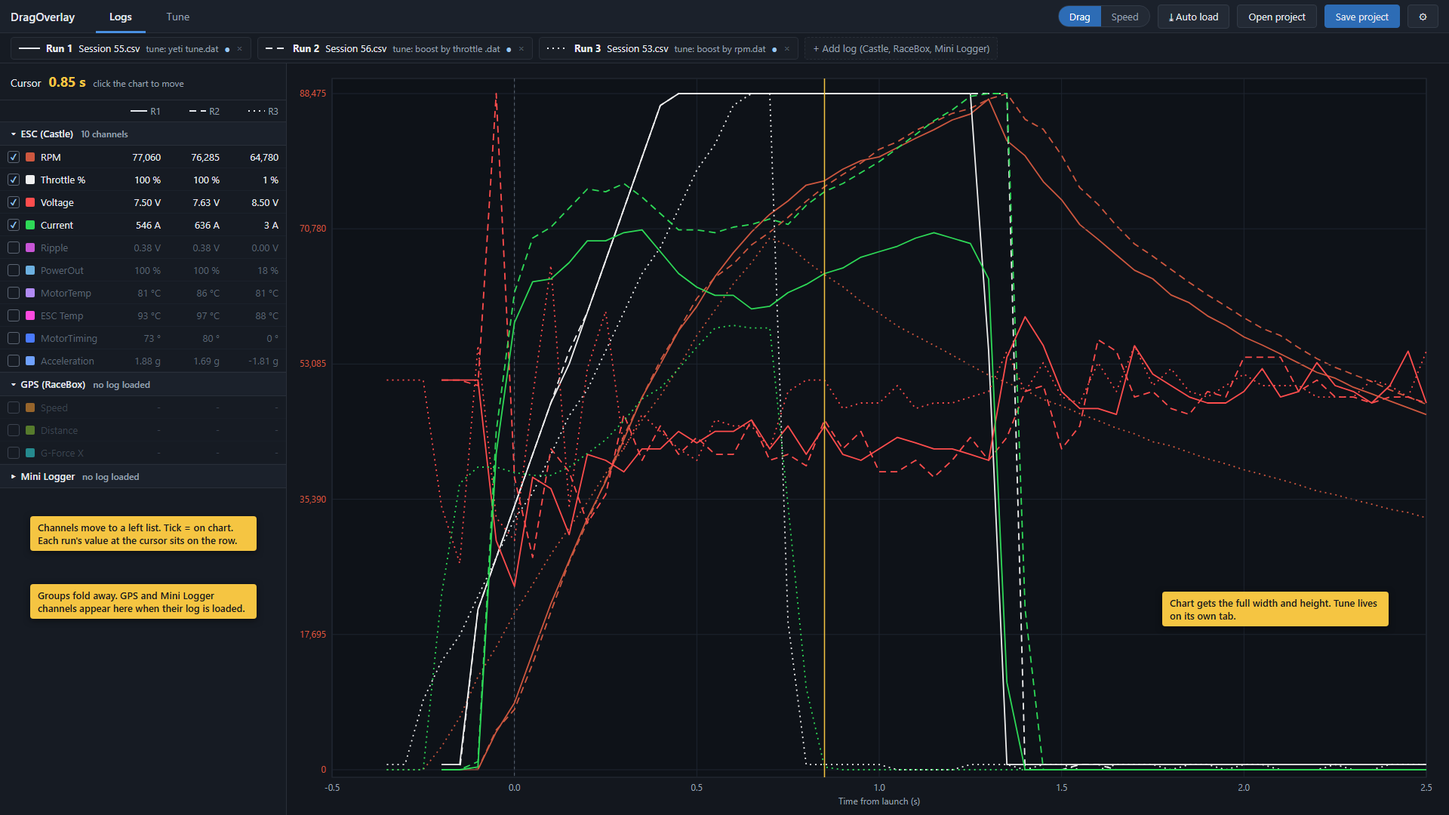
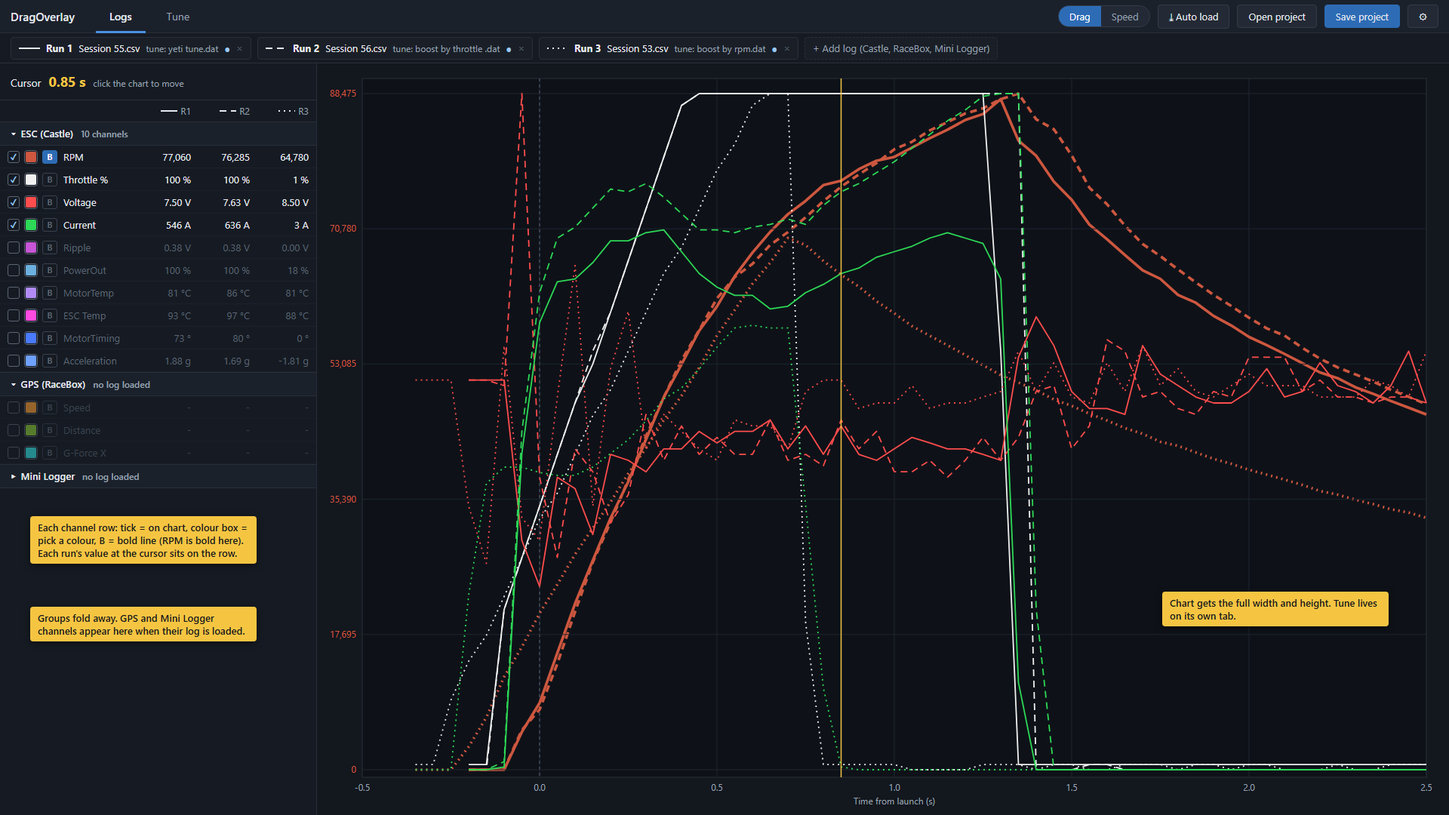
docs: add bold-line button to channel rows in the Logs mockup

diff --git a/Docs/mockups/logs-page.html b/Docs/mockups/logs-page.html
@@ -19,7 +19,7 @@ body { width: 1920px; height: 1080px; background: #13171E; color: #E6E9EF;
 .note { position: absolute; z-index: 10; background: #F5C542; color: #1b1b1b; font: 600 13px 'Segoe UI'; padding: 6px 10px; border-radius: 4px; box-shadow: 0 2px 8px rgba(0,0,0,.5); max-width: 300px; }
 
 .main { flex: 1; position: relative; }
-.side { position: absolute; left: 0; top: 0; bottom: 0; width: 380px; background: #161B23; border-right: 1px solid #292F39; overflow: hidden; }
+.side { position: absolute; left: 0; top: 0; bottom: 0; width: 420px; background: #161B23; border-right: 1px solid #292F39; overflow: hidden; }
 .cur { display: flex; align-items: baseline; gap: 10px; padding: 12px 14px; border-bottom: 1px solid #292F39; font-size: 14px; }
 .cur b { color: #F5C542; font-size: 18px; }
 .hdr, .row { display: flex; align-items: center; height: 30px; padding: 0 10px; gap: 8px; }
@@ -29,8 +29,10 @@ body { width: 1920px; height: 1080px; background: #13171E; color: #E6E9EF;
 .row.off .nm, .row.off .vc { color: #5C6573; }
 .row.dis { opacity: .55; }
 .cb { width: 16px; height: 16px; border: 1px solid #5C6573; border-radius: 3px; font-size: 11px; line-height: 14px; text-align: center; color: #9AC7F2; }
-.sw { width: 12px; height: 12px; border-radius: 2px; }
-.nm { flex: 1; }
+.sw { width: 14px; height: 14px; border-radius: 2px; outline: 1px solid #5C6573; outline-offset: 1px; }
+.bb { width: 20px; height: 18px; border: 1px solid #3A4250; border-radius: 3px; font: 700 11px 'Segoe UI'; text-align: center; line-height: 16px; color: #5C6573; }
+.bb.on { background: #2D6CB5; border-color: #2D6CB5; color: #fff; }
+.nm { flex: 1; white-space: nowrap; }
 .vc { width: 70px; text-align: right; font-variant-numeric: tabular-nums; display: flex; justify-content: flex-end; align-items: center; gap: 4px; }
 </style></head><body><div class="top"><div class="brand">DragOverlay</div><div class="tab on">Logs</div><div class="tab">Tune</div><div class="sp"></div>
 <div class="pill"><span class="on">Drag</span><span>Speed</span></div>
@@ -38,11 +40,11 @@ body { width: 1920px; height: 1080px; background: #13171E; color: #E6E9EF;
 <div class="side">
   <div class="cur"><span>Cursor</span><b>0.85 s</b><span class="lbl">click the chart to move</span></div>
   <div class="hdr"><span class="nm"></span><div class="vc"><svg width="22" height="10"><line x1="0" y1="5" x2="22" y2="5" stroke="#E6E9EF" stroke-width="2" stroke-dasharray=""/></svg> R1</div><div class="vc"><svg width="22" height="10"><line x1="0" y1="5" x2="22" y2="5" stroke="#E6E9EF" stroke-width="2" stroke-dasharray="9 6"/></svg> R2</div><div class="vc"><svg width="22" height="10"><line x1="0" y1="5" x2="22" y2="5" stroke="#E6E9EF" stroke-width="2" stroke-dasharray="2 5"/></svg> R3</div></div>
-  <div class="grp">▾ ESC (Castle)<span class="lbl">10 channels</span></div><div class="row"><span class="cb">✔</span><span class="sw" style="background:#CD573F"></span><span class="nm">RPM</span><div class="vc">77,060</div><div class="vc">76,285</div><div class="vc">64,780</div></div><div class="row"><span class="cb">✔</span><span class="sw" style="background:#F0F0F0"></span><span class="nm">Throttle %</span><div class="vc">100 %</div><div class="vc">100 %</div><div class="vc">1 %</div></div><div class="row"><span class="cb">✔</span><span class="sw" style="background:#FF4D4D"></span><span class="nm">Voltage</span><div class="vc">7.50 V</div><div class="vc">7.63 V</div><div class="vc">8.50 V</div></div><div class="row"><span class="cb">✔</span><span class="sw" style="background:#2ED957"></span><span class="nm">Current</span><div class="vc">546 A</div><div class="vc">636 A</div><div class="vc">3 A</div></div><div class="row off"><span class="cb"></span><span class="sw" style="background:#C855D6"></span><span class="nm">Ripple</span><div class="vc">0.38 V</div><div class="vc">0.38 V</div><div class="vc">0.00 V</div></div><div class="row off"><span class="cb"></span><span class="sw" style="background:#6CB0E0"></span><span class="nm">PowerOut</span><div class="vc">100 %</div><div class="vc">100 %</div><div class="vc">18 %</div></div><div class="row off"><span class="cb"></span><span class="sw" style="background:#B18BF5"></span><span class="nm">MotorTemp</span><div class="vc">81 °C</div><div class="vc">86 °C</div><div class="vc">81 °C</div></div><div class="row off"><span class="cb"></span><span class="sw" style="background:#FF4AE0"></span><span class="nm">ESC Temp</span><div class="vc">93 °C</div><div class="vc">97 °C</div><div class="vc">88 °C</div></div><div class="row off"><span class="cb"></span><span class="sw" style="background:#4A7AFF"></span><span class="nm">MotorTiming</span><div class="vc">73 °</div><div class="vc">80 °</div><div class="vc">0 °</div></div><div class="row off"><span class="cb"></span><span class="sw" style="background:#6FA1FF"></span><span class="nm">Acceleration</span><div class="vc">1.88 g</div><div class="vc">1.69 g</div><div class="vc">-1.81 g</div></div>
-  <div class="grp">▾ GPS (RaceBox)<span class="lbl">no log loaded</span></div><div class="row off dis"><span class="cb"></span><span class="sw" style="background:#FFA033"></span><span class="nm">Speed</span><div class="vc">-</div><div class="vc">-</div><div class="vc">-</div></div><div class="row off dis"><span class="cb"></span><span class="sw" style="background:#8CCB35"></span><span class="nm">Distance</span><div class="vc">-</div><div class="vc">-</div><div class="vc">-</div></div><div class="row off dis"><span class="cb"></span><span class="sw" style="background:#33E6E6"></span><span class="nm">G-Force X</span><div class="vc">-</div><div class="vc">-</div><div class="vc">-</div></div>
+  <div class="grp">▾ ESC (Castle)<span class="lbl">10 channels</span></div><div class="row"><span class="cb">✔</span><span class="sw" style="background:#CD573F"></span><span class="bb on">B</span><span class="nm">RPM</span><div class="vc">77,060</div><div class="vc">76,285</div><div class="vc">64,780</div></div><div class="row"><span class="cb">✔</span><span class="sw" style="background:#F0F0F0"></span><span class="bb">B</span><span class="nm">Throttle %</span><div class="vc">100 %</div><div class="vc">100 %</div><div class="vc">1 %</div></div><div class="row"><span class="cb">✔</span><span class="sw" style="background:#FF4D4D"></span><span class="bb">B</span><span class="nm">Voltage</span><div class="vc">7.50 V</div><div class="vc">7.63 V</div><div class="vc">8.50 V</div></div><div class="row"><span class="cb">✔</span><span class="sw" style="background:#2ED957"></span><span class="bb">B</span><span class="nm">Current</span><div class="vc">546 A</div><div class="vc">636 A</div><div class="vc">3 A</div></div><div class="row off"><span class="cb"></span><span class="sw" style="background:#C855D6"></span><span class="bb">B</span><span class="nm">Ripple</span><div class="vc">0.38 V</div><div class="vc">0.38 V</div><div class="vc">0.00 V</div></div><div class="row off"><span class="cb"></span><span class="sw" style="background:#6CB0E0"></span><span class="bb">B</span><span class="nm">PowerOut</span><div class="vc">100 %</div><div class="vc">100 %</div><div class="vc">18 %</div></div><div class="row off"><span class="cb"></span><span class="sw" style="background:#B18BF5"></span><span class="bb">B</span><span class="nm">MotorTemp</span><div class="vc">81 °C</div><div class="vc">86 °C</div><div class="vc">81 °C</div></div><div class="row off"><span class="cb"></span><span class="sw" style="background:#FF4AE0"></span><span class="bb">B</span><span class="nm">ESC Temp</span><div class="vc">93 °C</div><div class="vc">97 °C</div><div class="vc">88 °C</div></div><div class="row off"><span class="cb"></span><span class="sw" style="background:#4A7AFF"></span><span class="bb">B</span><span class="nm">MotorTiming</span><div class="vc">73 °</div><div class="vc">80 °</div><div class="vc">0 °</div></div><div class="row off"><span class="cb"></span><span class="sw" style="background:#6FA1FF"></span><span class="bb">B</span><span class="nm">Acceleration</span><div class="vc">1.88 g</div><div class="vc">1.69 g</div><div class="vc">-1.81 g</div></div>
+  <div class="grp">▾ GPS (RaceBox)<span class="lbl">no log loaded</span></div><div class="row off dis"><span class="cb"></span><span class="sw" style="background:#FFA033"></span><span class="bb">B</span><span class="nm">Speed</span><div class="vc">-</div><div class="vc">-</div><div class="vc">-</div></div><div class="row off dis"><span class="cb"></span><span class="sw" style="background:#8CCB35"></span><span class="bb">B</span><span class="nm">Distance</span><div class="vc">-</div><div class="vc">-</div><div class="vc">-</div></div><div class="row off dis"><span class="cb"></span><span class="sw" style="background:#33E6E6"></span><span class="bb">B</span><span class="nm">G-Force X</span><div class="vc">-</div><div class="vc">-</div><div class="vc">-</div></div>
   <div class="grp">▸ Mini Logger<span class="lbl">no log loaded</span></div>
 </div>
-<div class="note" style="left:40px; top:600px">Channels move to a left list. Tick = on chart. Each run's value at the cursor sits on the row.</div>
-<div class="note" style="left:40px; top:690px">Groups fold away. GPS and Mini Logger channels appear here when their log is loaded.</div>
+<div class="note" style="left:40px; top:600px">Each channel row: tick = on chart, colour box = pick a colour, B = bold line (RPM is bold here). Each run's value at the cursor sits on the row.</div>
+<div class="note" style="left:40px; top:720px">Groups fold away. GPS and Mini Logger channels appear here when their log is loaded.</div>
 <div class="note" style="left:1540px; top:700px">Chart gets the full width and height. Tune lives on its own tab.</div>
-</div><svg width="1920" height="1080" style="position:absolute;left:0;top:0;pointer-events:none"><rect x="440" y="104" width="1450" height="926" fill="#0E1218" stroke="#292F39"/><line x1="440.0" y1="104" x2="440.0" y2="1030" stroke="#1E2530"/><text x="440.0" y="1048" fill="#9AA3B2" font-size="12" text-anchor="middle">-0.5</text><line x1="681.6666666666666" y1="104" x2="681.6666666666666" y2="1030" stroke="#1E2530"/><text x="681.6666666666666" y="1048" fill="#9AA3B2" font-size="12" text-anchor="middle">0.0</text><line x1="923.3333333333333" y1="104" x2="923.3333333333333" y2="1030" stroke="#1E2530"/><text x="923.3333333333333" y="1048" fill="#9AA3B2" font-size="12" text-anchor="middle">0.5</text><line x1="1165.0" y1="104" x2="1165.0" y2="1030" stroke="#1E2530"/><text x="1165.0" y="1048" fill="#9AA3B2" font-size="12" text-anchor="middle">1.0</text><line x1="1406.6666666666665" y1="104" x2="1406.6666666666665" y2="1030" stroke="#1E2530"/><text x="1406.6666666666665" y="1048" fill="#9AA3B2" font-size="12" text-anchor="middle">1.5</text><line x1="1648.3333333333335" y1="104" x2="1648.3333333333335" y2="1030" stroke="#1E2530"/><text x="1648.3333333333335" y="1048" fill="#9AA3B2" font-size="12" text-anchor="middle">2.0</text><line x1="1890.0" y1="104" x2="1890.0" y2="1030" stroke="#1E2530"/><text x="1890.0" y="1048" fill="#9AA3B2" font-size="12" text-anchor="middle">2.5</text><text x="1165.0" y="1066" fill="#9AA3B2" font-size="12" text-anchor="middle">Time from launch (s)</text><line x1="681.6666666666666" y1="104" x2="681.6666666666666" y2="1030" stroke="#5C6573" stroke-dasharray="4 4"/><polyline points="585.0,1020.0 609.2,1020.0 633.3,1019.9 657.5,969.9 681.7,931.5 705.8,865.4 730.0,799.8 754.2,742.8 778.3,686.8 802.5,638.2 826.7,582.3 850.8,526.4 875.0,482.9 899.2,438.2 923.3,406.1 947.5,366.2 971.7,334.9 995.8,307.3 1020.0,283.9 1044.2,266.2 1068.3,245.3 1092.5,239.6 1116.7,224.2 1140.8,212.9 1165.0,207.9 1189.2,195.5 1213.3,183.2 1237.5,171.9 1261.7,159.0 1285.8,151.1 1310.0,131.3 1334.2,186.4 1358.3,206.4 1382.5,240.8 1406.7,264.8 1430.8,297.6 1455.0,317.1 1479.2,337.8 1503.3,358.1 1527.5,369.5 1551.7,390.9 1575.8,401.2 1600.0,418.6 1624.2,431.3 1648.3,446.5 1672.5,457.3 1696.7,469.0 1720.8,481.1 1745.0,493.5 1769.2,501.2 1793.3,513.2 1817.5,521.9 1841.7,531.4 1865.8,540.3 1890.0,549.3" fill="none" stroke="#CD573F" stroke-width="1.8" stroke-dasharray="" stroke-linejoin="round" opacity="1.0"/><polyline points="585.0,1020.0 609.2,1020.0 633.3,1019.2 657.5,967.4 681.7,940.2 705.8,879.4 730.0,810.6 754.2,745.0 778.3,691.8 802.5,635.8 826.7,577.9 850.8,526.6 875.0,477.5 899.2,437.4 923.3,395.5 947.5,367.3 971.7,349.7 995.8,324.6 1020.0,307.6 1044.2,288.0 1068.3,266.6 1092.5,247.5 1116.7,231.2 1140.8,216.1 1165.0,197.8 1189.2,187.8 1213.3,172.9 1237.5,161.8 1261.7,150.3 1285.8,143.6 1310.0,131.4 1334.2,124.0 1358.3,158.1 1382.5,171.4 1406.7,205.8 1430.8,248.7 1455.0,270.8 1479.2,298.9 1503.3,323.3 1527.5,339.4 1551.7,357.1 1575.8,374.2 1600.0,390.7 1624.2,405.6 1648.3,421.1 1672.5,435.1 1696.7,444.7 1720.8,460.8 1745.0,475.3 1769.2,486.8 1793.3,496.2 1817.5,505.6 1841.7,516.6 1865.8,525.9 1890.0,535.7" fill="none" stroke="#CD573F" stroke-width="1.8" stroke-dasharray="9 6" stroke-linejoin="round" opacity="1.0"/><polyline points="512.5,1020.0 536.7,1020.0 560.8,1020.0 585.0,989.6 609.2,950.5 633.3,896.8 657.5,857.4 681.7,812.7 705.8,774.5 730.0,734.5 754.2,699.7 778.3,665.4 802.5,627.4 826.7,593.8 850.8,556.7 875.0,524.5 899.2,487.2 923.3,444.7 947.5,410.8 971.7,376.2 995.8,348.1 1020.0,315.3 1044.2,324.7 1068.3,345.7 1092.5,364.0 1116.7,379.8 1140.8,399.2 1165.0,415.1 1189.2,432.1 1213.3,444.9 1237.5,457.5 1261.7,470.5 1285.8,483.9 1310.0,497.1 1334.2,507.0 1358.3,517.2 1382.5,529.4 1406.7,537.8 1430.8,548.2 1455.0,557.3 1479.2,567.3 1503.3,574.8 1527.5,585.4 1551.7,590.9 1575.8,599.5 1600.0,608.0 1624.2,614.6 1648.3,622.5 1672.5,628.9 1696.7,635.5 1720.8,642.5 1745.0,650.6 1769.2,655.5 1793.3,662.2 1817.5,668.0 1841.7,674.8 1865.8,679.2 1890.0,686.3" fill="none" stroke="#CD573F" stroke-width="1.8" stroke-dasharray="2 5" stroke-linejoin="round" opacity="1.0"/><text x="432" y="1024.0" fill="#CD573F" font-size="12" text-anchor="end">0</text><line x1="440" y1="1020.0" x2="1890" y2="1020.0" stroke="#1E2530"/><text x="432" y="844.8" fill="#CD573F" font-size="12" text-anchor="end">17,695</text><line x1="440" y1="840.8" x2="1890" y2="840.8" stroke="#1E2530"/><text x="432" y="665.5999999999999" fill="#CD573F" font-size="12" text-anchor="end">35,390</text><line x1="440" y1="661.5999999999999" x2="1890" y2="661.5999999999999" stroke="#1E2530"/><text x="432" y="486.4" fill="#CD573F" font-size="12" text-anchor="end">53,085</text><line x1="440" y1="482.4" x2="1890" y2="482.4" stroke="#1E2530"/><text x="432" y="307.19999999999993" fill="#CD573F" font-size="12" text-anchor="end">70,780</text><line x1="440" y1="303.19999999999993" x2="1890" y2="303.19999999999993" stroke="#1E2530"/><text x="432" y="128.0" fill="#CD573F" font-size="12" text-anchor="end">88,475</text><line x1="440" y1="124.0" x2="1890" y2="124.0" stroke="#1E2530"/><polyline points="585.0,1013.2 609.2,1013.2 633.3,807.8 657.5,739.2 681.7,670.8 705.8,602.2 730.0,533.8 754.2,482.4 778.3,413.8 802.5,345.4 826.7,276.8 850.8,208.4 875.0,139.7 899.2,124.0 923.3,124.0 947.5,124.0 971.7,124.0 995.8,124.0 1020.0,124.0 1044.2,124.0 1068.3,124.0 1092.5,124.0 1116.7,124.0 1140.8,124.0 1165.0,124.0 1189.2,124.0 1213.3,124.0 1237.5,124.0 1261.7,124.0 1285.8,124.0 1310.0,465.1 1334.2,1013.2 1358.3,1013.2 1382.5,1013.2 1406.7,1013.2 1430.8,1013.2 1455.0,1013.2 1479.2,1013.2 1503.3,1013.2 1527.5,1013.2 1551.7,1013.2 1575.8,1013.2 1600.0,1013.2 1624.2,1013.2 1648.3,1013.2 1672.5,1013.2 1696.7,1013.2 1720.8,1013.2 1745.0,1013.2 1769.2,1013.2 1793.3,1013.2 1817.5,1013.2 1841.7,1013.2 1865.8,1013.2 1890.0,1013.2" fill="none" stroke="#F0F0F0" stroke-width="1.8" stroke-dasharray="" stroke-linejoin="round" opacity="1.0"/><polyline points="585.0,1020.0 609.2,1020.0 633.3,807.8 657.5,739.2 681.7,670.8 705.8,602.2 730.0,533.8 754.2,465.1 778.3,413.8 802.5,345.4 826.7,276.8 850.8,208.4 875.0,139.7 899.2,124.0 923.3,124.0 947.5,124.0 971.7,124.0 995.8,124.0 1020.0,124.0 1044.2,124.0 1068.3,124.0 1092.5,124.0 1116.7,124.0 1140.8,124.0 1165.0,124.0 1189.2,124.0 1213.3,124.0 1237.5,124.0 1261.7,124.0 1285.8,124.0 1310.0,124.0 1334.2,124.0 1358.3,1020.0 1382.5,1020.0 1406.7,1020.0 1430.8,1013.2 1455.0,1013.2 1479.2,1020.0 1503.3,1020.0 1527.5,1020.0 1551.7,1020.0 1575.8,1020.0 1600.0,1020.0 1624.2,1020.0 1648.3,1020.0 1672.5,1020.0 1696.7,1020.0 1720.8,1020.0 1745.0,1020.0 1769.2,1020.0 1793.3,1020.0 1817.5,1020.0 1841.7,1020.0 1865.8,1020.0 1890.0,1020.0" fill="none" stroke="#F0F0F0" stroke-width="1.8" stroke-dasharray="9 6" stroke-linejoin="round" opacity="1.0"/><polyline points="512.5,1013.2 536.7,1013.2 560.8,927.6 585.0,876.2 609.2,841.9 633.3,790.5 657.5,739.2 681.7,687.8 705.8,653.5 730.0,602.2 754.2,550.8 778.3,516.5 802.5,465.1 826.7,413.8 850.8,362.4 875.0,328.1 899.2,276.8 923.3,225.4 947.5,191.1 971.7,139.7 995.8,124.0 1020.0,124.0 1044.2,824.8 1068.3,1013.2 1092.5,1013.2 1116.7,1013.2 1140.8,1013.2 1165.0,1013.2 1189.2,1020.0 1213.3,1020.0 1237.5,1020.0 1261.7,1020.0 1285.8,1013.2 1310.0,1013.2 1334.2,1013.2 1358.3,1020.0 1382.5,1013.2 1406.7,1013.2 1430.8,1020.0 1455.0,1020.0 1479.2,1013.2 1503.3,1013.2 1527.5,1013.2 1551.7,1020.0 1575.8,1013.2 1600.0,1013.2 1624.2,1020.0 1648.3,1013.2 1672.5,1013.2 1696.7,1020.0 1720.8,1020.0 1745.0,1020.0 1769.2,1013.2 1793.3,1020.0 1817.5,1020.0 1841.7,1013.2 1865.8,1013.2 1890.0,1013.2" fill="none" stroke="#F0F0F0" stroke-width="1.8" stroke-dasharray="2 5" stroke-linejoin="round" opacity="1.0"/><polyline points="585.0,503.7 609.2,503.7 633.3,503.7 657.5,716.3 681.7,777.0 705.8,632.4 730.0,647.6 754.2,708.4 778.3,602.1 802.5,610.0 826.7,625.2 850.8,594.8 875.0,594.8 899.2,571.7 923.3,586.9 947.5,571.7 971.7,571.7 995.8,556.5 1020.0,594.8 1044.2,564.4 1068.3,602.1 1092.5,564.4 1116.7,602.1 1140.8,610.0 1165.0,594.8 1189.2,579.6 1213.3,586.9 1237.5,594.8 1261.7,594.8 1285.8,602.1 1310.0,610.0 1334.2,473.3 1358.3,419.8 1382.5,458.1 1406.7,518.8 1430.8,541.3 1455.0,541.3 1479.2,549.2 1503.3,458.1 1527.5,495.8 1551.7,511.0 1575.8,526.1 1600.0,534.0 1624.2,534.0 1648.3,518.8 1672.5,488.5 1696.7,526.1 1720.8,518.8 1745.0,480.6 1769.2,511.0 1793.3,518.8 1817.5,534.0 1841.7,511.0 1865.8,465.4 1890.0,534.0" fill="none" stroke="#FF4D4D" stroke-width="1.8" stroke-dasharray="" stroke-linejoin="round" opacity="1.0"/><polyline points="585.0,503.7 609.2,503.7 633.3,511.0 657.5,124.0 681.7,632.4 705.8,738.7 730.0,594.8 754.2,625.2 778.3,693.2 802.5,655.5 826.7,549.2 850.8,610.0 875.0,564.4 899.2,602.1 923.3,579.6 947.5,602.1 971.7,602.1 995.8,556.5 1020.0,610.0 1044.2,602.1 1068.3,617.3 1092.5,556.5 1116.7,594.8 1140.8,571.7 1165.0,625.2 1189.2,625.2 1213.3,610.0 1237.5,632.4 1261.7,610.0 1285.8,579.6 1310.0,610.0 1334.2,579.6 1358.3,518.8 1382.5,511.0 1406.7,594.8 1430.8,564.4 1455.0,450.2 1479.2,465.4 1503.3,526.1 1527.5,518.8 1551.7,541.3 1575.8,549.2 1600.0,518.8 1624.2,526.1 1648.3,473.3 1672.5,473.3 1696.7,473.3 1720.8,518.8 1745.0,503.7 1769.2,526.1 1793.3,526.1 1817.5,534.0 1841.7,526.1 1865.8,526.1 1890.0,534.0" fill="none" stroke="#FF4D4D" stroke-width="1.8" stroke-dasharray="9 6" stroke-linejoin="round" opacity="1.0"/><polyline points="512.5,503.7 536.7,503.7 560.8,503.7 585.0,670.7 609.2,746.6 633.3,458.1 657.5,685.9 681.7,716.3 705.8,526.1 730.0,351.8 754.2,670.7 778.3,488.5 802.5,412.5 826.7,594.8 850.8,549.2 875.0,571.7 899.2,594.8 923.3,610.0 947.5,556.5 971.7,564.4 995.8,564.4 1020.0,594.8 1044.2,518.8 1068.3,503.7 1092.5,503.7 1116.7,541.3 1140.8,534.0 1165.0,534.0 1189.2,511.0 1213.3,541.3 1237.5,534.0 1261.7,534.0 1285.8,526.1 1310.0,518.8 1334.2,465.4 1358.3,518.8 1382.5,480.6 1406.7,526.1 1430.8,534.0 1455.0,480.6 1479.2,518.8 1503.3,458.1 1527.5,511.0 1551.7,488.5 1575.8,518.8 1600.0,526.1 1624.2,511.0 1648.3,495.8 1672.5,511.0 1696.7,511.0 1720.8,511.0 1745.0,526.1 1769.2,526.1 1793.3,526.1 1817.5,503.7 1841.7,511.0 1865.8,526.1 1890.0,465.4" fill="none" stroke="#FF4D4D" stroke-width="1.8" stroke-dasharray="2 5" stroke-linejoin="round" opacity="1.0"/><polyline points="585.0,1020.0 609.2,1020.0 633.3,1016.4 657.5,600.9 681.7,427.5 705.8,373.3 730.0,369.7 754.2,348.0 778.3,319.1 802.5,319.1 826.7,308.3 850.8,304.6 875.0,333.5 899.2,362.5 923.3,380.5 947.5,391.4 971.7,391.4 995.8,409.4 1020.0,405.8 1044.2,387.7 1068.3,376.9 1092.5,362.5 1116.7,355.2 1140.8,340.8 1165.0,333.5 1189.2,326.3 1213.3,315.5 1237.5,308.3 1261.7,315.5 1285.8,322.7 1310.0,369.7 1334.2,904.4 1358.3,1020.0 1382.5,1020.0 1406.7,1020.0 1430.8,1020.0 1455.0,1020.0 1479.2,1020.0 1503.3,1020.0 1527.5,1020.0 1551.7,1020.0 1575.8,1020.0 1600.0,1020.0 1624.2,1020.0 1648.3,1020.0 1672.5,1020.0 1696.7,1020.0 1720.8,1020.0 1745.0,1020.0 1769.2,1020.0 1793.3,1020.0 1817.5,1020.0 1841.7,1020.0 1865.8,1020.0 1890.0,1020.0" fill="none" stroke="#2ED957" stroke-width="1.8" stroke-dasharray="" stroke-linejoin="round" opacity="1.0"/><polyline points="585.0,1020.0 609.2,1020.0 633.3,1009.2 657.5,572.0 681.7,387.7 705.8,315.5 730.0,301.0 754.2,275.7 778.3,250.5 802.5,254.1 826.7,243.2 850.8,261.3 875.0,283.0 899.2,304.6 923.3,304.6 947.5,308.3 971.7,301.0 995.8,297.4 1020.0,290.2 1044.2,297.4 1068.3,272.1 1092.5,254.1 1116.7,243.2 1140.8,228.8 1165.0,214.3 1189.2,196.3 1213.3,178.2 1237.5,160.1 1261.7,145.7 1285.8,127.6 1310.0,124.0 1334.2,124.0 1358.3,806.8 1382.5,1020.0 1406.7,1020.0 1430.8,1020.0 1455.0,1020.0 1479.2,1020.0 1503.3,1020.0 1527.5,1020.0 1551.7,1020.0 1575.8,1020.0 1600.0,1020.0 1624.2,1020.0 1648.3,1020.0 1672.5,1020.0 1696.7,1020.0 1720.8,1020.0 1745.0,1020.0 1769.2,1020.0 1793.3,1020.0 1817.5,1020.0 1841.7,1020.0 1865.8,1020.0 1890.0,1020.0" fill="none" stroke="#2ED957" stroke-width="1.8" stroke-dasharray="9 6" stroke-linejoin="round" opacity="1.0"/><polyline points="512.5,1020.0 536.7,1020.0 560.8,1020.0 585.0,788.8 609.2,640.6 633.3,619.0 657.5,619.0 681.7,626.2 705.8,629.8 730.0,629.8 754.2,619.0 778.3,600.9 802.5,582.8 826.7,557.5 850.8,528.6 875.0,514.2 899.2,488.9 923.3,460.0 947.5,434.7 971.7,431.1 995.8,434.7 1020.0,434.7 1044.2,669.5 1068.3,911.6 1092.5,1016.4 1116.7,1020.0 1140.8,1020.0 1165.0,1020.0 1189.2,1020.0 1213.3,1020.0 1237.5,1020.0 1261.7,1020.0 1285.8,1020.0 1310.0,1020.0 1334.2,1020.0 1358.3,1020.0 1382.5,1020.0 1406.7,1020.0 1430.8,1020.0 1455.0,1020.0 1479.2,1020.0 1503.3,1020.0 1527.5,1020.0 1551.7,1020.0 1575.8,1020.0 1600.0,1020.0 1624.2,1020.0 1648.3,1020.0 1672.5,1020.0 1696.7,1020.0 1720.8,1020.0 1745.0,1020.0 1769.2,1020.0 1793.3,1020.0 1817.5,1020.0 1841.7,1020.0 1865.8,1020.0 1890.0,1020.0" fill="none" stroke="#2ED957" stroke-width="1.8" stroke-dasharray="2 5" stroke-linejoin="round" opacity="1.0"/><line x1="1092.5" y1="104" x2="1092.5" y2="1030" stroke="#F5C542" stroke-width="1.5"/></svg></body></html>
+</div><svg width="1920" height="1080" style="position:absolute;left:0;top:0;pointer-events:none"><rect x="480" y="104" width="1410" height="926" fill="#0E1218" stroke="#292F39"/><line x1="480.0" y1="104" x2="480.0" y2="1030" stroke="#1E2530"/><text x="480.0" y="1048" fill="#9AA3B2" font-size="12" text-anchor="middle">-0.5</text><line x1="715.0" y1="104" x2="715.0" y2="1030" stroke="#1E2530"/><text x="715.0" y="1048" fill="#9AA3B2" font-size="12" text-anchor="middle">0.0</text><line x1="950.0" y1="104" x2="950.0" y2="1030" stroke="#1E2530"/><text x="950.0" y="1048" fill="#9AA3B2" font-size="12" text-anchor="middle">0.5</text><line x1="1185.0" y1="104" x2="1185.0" y2="1030" stroke="#1E2530"/><text x="1185.0" y="1048" fill="#9AA3B2" font-size="12" text-anchor="middle">1.0</text><line x1="1420.0" y1="104" x2="1420.0" y2="1030" stroke="#1E2530"/><text x="1420.0" y="1048" fill="#9AA3B2" font-size="12" text-anchor="middle">1.5</text><line x1="1655.0" y1="104" x2="1655.0" y2="1030" stroke="#1E2530"/><text x="1655.0" y="1048" fill="#9AA3B2" font-size="12" text-anchor="middle">2.0</text><line x1="1890.0" y1="104" x2="1890.0" y2="1030" stroke="#1E2530"/><text x="1890.0" y="1048" fill="#9AA3B2" font-size="12" text-anchor="middle">2.5</text><text x="1185.0" y="1066" fill="#9AA3B2" font-size="12" text-anchor="middle">Time from launch (s)</text><line x1="715.0" y1="104" x2="715.0" y2="1030" stroke="#5C6573" stroke-dasharray="4 4"/><polyline points="621.0,1020.0 644.5,1020.0 668.0,1019.9 691.5,969.9 715.0,931.5 738.5,865.4 762.0,799.8 785.5,742.8 809.0,686.8 832.5,638.2 856.0,582.3 879.5,526.4 903.0,482.9 926.5,438.2 950.0,406.1 973.5,366.2 997.0,334.9 1020.5,307.3 1044.0,283.9 1067.5,266.2 1091.0,245.3 1114.5,239.6 1138.0,224.2 1161.5,212.9 1185.0,207.9 1208.5,195.5 1232.0,183.2 1255.5,171.9 1279.0,159.0 1302.5,151.1 1326.0,131.3 1349.5,186.4 1373.0,206.4 1396.5,240.8 1420.0,264.8 1443.5,297.6 1467.0,317.1 1490.5,337.8 1514.0,358.1 1537.5,369.5 1561.0,390.9 1584.5,401.2 1608.0,418.6 1631.5,431.3 1655.0,446.5 1678.5,457.3 1702.0,469.0 1725.5,481.1 1749.0,493.5 1772.5,501.2 1796.0,513.2 1819.5,521.9 1843.0,531.4 1866.5,540.3 1890.0,549.3" fill="none" stroke="#CD573F" stroke-width="3.6" stroke-dasharray="" stroke-linejoin="round" opacity="1.0"/><polyline points="621.0,1020.0 644.5,1020.0 668.0,1019.2 691.5,967.4 715.0,940.2 738.5,879.4 762.0,810.6 785.5,745.0 809.0,691.8 832.5,635.8 856.0,577.9 879.5,526.6 903.0,477.5 926.5,437.4 950.0,395.5 973.5,367.3 997.0,349.7 1020.5,324.6 1044.0,307.6 1067.5,288.0 1091.0,266.6 1114.5,247.5 1138.0,231.2 1161.5,216.1 1185.0,197.8 1208.5,187.8 1232.0,172.9 1255.5,161.8 1279.0,150.3 1302.5,143.6 1326.0,131.4 1349.5,124.0 1373.0,158.1 1396.5,171.4 1420.0,205.8 1443.5,248.7 1467.0,270.8 1490.5,298.9 1514.0,323.3 1537.5,339.4 1561.0,357.1 1584.5,374.2 1608.0,390.7 1631.5,405.6 1655.0,421.1 1678.5,435.1 1702.0,444.7 1725.5,460.8 1749.0,475.3 1772.5,486.8 1796.0,496.2 1819.5,505.6 1843.0,516.6 1866.5,525.9 1890.0,535.7" fill="none" stroke="#CD573F" stroke-width="3.6" stroke-dasharray="9 6" stroke-linejoin="round" opacity="1.0"/><polyline points="550.5,1020.0 574.0,1020.0 597.5,1020.0 621.0,989.6 644.5,950.5 668.0,896.8 691.5,857.4 715.0,812.7 738.5,774.5 762.0,734.5 785.5,699.7 809.0,665.4 832.5,627.4 856.0,593.8 879.5,556.7 903.0,524.5 926.5,487.2 950.0,444.7 973.5,410.8 997.0,376.2 1020.5,348.1 1044.0,315.3 1067.5,324.7 1091.0,345.7 1114.5,364.0 1138.0,379.8 1161.5,399.2 1185.0,415.1 1208.5,432.1 1232.0,444.9 1255.5,457.5 1279.0,470.5 1302.5,483.9 1326.0,497.1 1349.5,507.0 1373.0,517.2 1396.5,529.4 1420.0,537.8 1443.5,548.2 1467.0,557.3 1490.5,567.3 1514.0,574.8 1537.5,585.4 1561.0,590.9 1584.5,599.5 1608.0,608.0 1631.5,614.6 1655.0,622.5 1678.5,628.9 1702.0,635.5 1725.5,642.5 1749.0,650.6 1772.5,655.5 1796.0,662.2 1819.5,668.0 1843.0,674.8 1866.5,679.2 1890.0,686.3" fill="none" stroke="#CD573F" stroke-width="3.6" stroke-dasharray="2 5" stroke-linejoin="round" opacity="1.0"/><text x="472" y="1024.0" fill="#CD573F" font-size="12" text-anchor="end">0</text><line x1="480" y1="1020.0" x2="1890" y2="1020.0" stroke="#1E2530"/><text x="472" y="844.8" fill="#CD573F" font-size="12" text-anchor="end">17,695</text><line x1="480" y1="840.8" x2="1890" y2="840.8" stroke="#1E2530"/><text x="472" y="665.5999999999999" fill="#CD573F" font-size="12" text-anchor="end">35,390</text><line x1="480" y1="661.5999999999999" x2="1890" y2="661.5999999999999" stroke="#1E2530"/><text x="472" y="486.4" fill="#CD573F" font-size="12" text-anchor="end">53,085</text><line x1="480" y1="482.4" x2="1890" y2="482.4" stroke="#1E2530"/><text x="472" y="307.19999999999993" fill="#CD573F" font-size="12" text-anchor="end">70,780</text><line x1="480" y1="303.19999999999993" x2="1890" y2="303.19999999999993" stroke="#1E2530"/><text x="472" y="128.0" fill="#CD573F" font-size="12" text-anchor="end">88,475</text><line x1="480" y1="124.0" x2="1890" y2="124.0" stroke="#1E2530"/><polyline points="621.0,1013.2 644.5,1013.2 668.0,807.8 691.5,739.2 715.0,670.8 738.5,602.2 762.0,533.8 785.5,482.4 809.0,413.8 832.5,345.4 856.0,276.8 879.5,208.4 903.0,139.7 926.5,124.0 950.0,124.0 973.5,124.0 997.0,124.0 1020.5,124.0 1044.0,124.0 1067.5,124.0 1091.0,124.0 1114.5,124.0 1138.0,124.0 1161.5,124.0 1185.0,124.0 1208.5,124.0 1232.0,124.0 1255.5,124.0 1279.0,124.0 1302.5,124.0 1326.0,465.1 1349.5,1013.2 1373.0,1013.2 1396.5,1013.2 1420.0,1013.2 1443.5,1013.2 1467.0,1013.2 1490.5,1013.2 1514.0,1013.2 1537.5,1013.2 1561.0,1013.2 1584.5,1013.2 1608.0,1013.2 1631.5,1013.2 1655.0,1013.2 1678.5,1013.2 1702.0,1013.2 1725.5,1013.2 1749.0,1013.2 1772.5,1013.2 1796.0,1013.2 1819.5,1013.2 1843.0,1013.2 1866.5,1013.2 1890.0,1013.2" fill="none" stroke="#F0F0F0" stroke-width="1.8" stroke-dasharray="" stroke-linejoin="round" opacity="1.0"/><polyline points="621.0,1020.0 644.5,1020.0 668.0,807.8 691.5,739.2 715.0,670.8 738.5,602.2 762.0,533.8 785.5,465.1 809.0,413.8 832.5,345.4 856.0,276.8 879.5,208.4 903.0,139.7 926.5,124.0 950.0,124.0 973.5,124.0 997.0,124.0 1020.5,124.0 1044.0,124.0 1067.5,124.0 1091.0,124.0 1114.5,124.0 1138.0,124.0 1161.5,124.0 1185.0,124.0 1208.5,124.0 1232.0,124.0 1255.5,124.0 1279.0,124.0 1302.5,124.0 1326.0,124.0 1349.5,124.0 1373.0,1020.0 1396.5,1020.0 1420.0,1020.0 1443.5,1013.2 1467.0,1013.2 1490.5,1020.0 1514.0,1020.0 1537.5,1020.0 1561.0,1020.0 1584.5,1020.0 1608.0,1020.0 1631.5,1020.0 1655.0,1020.0 1678.5,1020.0 1702.0,1020.0 1725.5,1020.0 1749.0,1020.0 1772.5,1020.0 1796.0,1020.0 1819.5,1020.0 1843.0,1020.0 1866.5,1020.0 1890.0,1020.0" fill="none" stroke="#F0F0F0" stroke-width="1.8" stroke-dasharray="9 6" stroke-linejoin="round" opacity="1.0"/><polyline points="550.5,1013.2 574.0,1013.2 597.5,927.6 621.0,876.2 644.5,841.9 668.0,790.5 691.5,739.2 715.0,687.8 738.5,653.5 762.0,602.2 785.5,550.8 809.0,516.5 832.5,465.1 856.0,413.8 879.5,362.4 903.0,328.1 926.5,276.8 950.0,225.4 973.5,191.1 997.0,139.7 1020.5,124.0 1044.0,124.0 1067.5,824.8 1091.0,1013.2 1114.5,1013.2 1138.0,1013.2 1161.5,1013.2 1185.0,1013.2 1208.5,1020.0 1232.0,1020.0 1255.5,1020.0 1279.0,1020.0 1302.5,1013.2 1326.0,1013.2 1349.5,1013.2 1373.0,1020.0 1396.5,1013.2 1420.0,1013.2 1443.5,1020.0 1467.0,1020.0 1490.5,1013.2 1514.0,1013.2 1537.5,1013.2 1561.0,1020.0 1584.5,1013.2 1608.0,1013.2 1631.5,1020.0 1655.0,1013.2 1678.5,1013.2 1702.0,1020.0 1725.5,1020.0 1749.0,1020.0 1772.5,1013.2 1796.0,1020.0 1819.5,1020.0 1843.0,1013.2 1866.5,1013.2 1890.0,1013.2" fill="none" stroke="#F0F0F0" stroke-width="1.8" stroke-dasharray="2 5" stroke-linejoin="round" opacity="1.0"/><polyline points="621.0,503.7 644.5,503.7 668.0,503.7 691.5,716.3 715.0,777.0 738.5,632.4 762.0,647.6 785.5,708.4 809.0,602.1 832.5,610.0 856.0,625.2 879.5,594.8 903.0,594.8 926.5,571.7 950.0,586.9 973.5,571.7 997.0,571.7 1020.5,556.5 1044.0,594.8 1067.5,564.4 1091.0,602.1 1114.5,564.4 1138.0,602.1 1161.5,610.0 1185.0,594.8 1208.5,579.6 1232.0,586.9 1255.5,594.8 1279.0,594.8 1302.5,602.1 1326.0,610.0 1349.5,473.3 1373.0,419.8 1396.5,458.1 1420.0,518.8 1443.5,541.3 1467.0,541.3 1490.5,549.2 1514.0,458.1 1537.5,495.8 1561.0,511.0 1584.5,526.1 1608.0,534.0 1631.5,534.0 1655.0,518.8 1678.5,488.5 1702.0,526.1 1725.5,518.8 1749.0,480.6 1772.5,511.0 1796.0,518.8 1819.5,534.0 1843.0,511.0 1866.5,465.4 1890.0,534.0" fill="none" stroke="#FF4D4D" stroke-width="1.8" stroke-dasharray="" stroke-linejoin="round" opacity="1.0"/><polyline points="621.0,503.7 644.5,503.7 668.0,511.0 691.5,124.0 715.0,632.4 738.5,738.7 762.0,594.8 785.5,625.2 809.0,693.2 832.5,655.5 856.0,549.2 879.5,610.0 903.0,564.4 926.5,602.1 950.0,579.6 973.5,602.1 997.0,602.1 1020.5,556.5 1044.0,610.0 1067.5,602.1 1091.0,617.3 1114.5,556.5 1138.0,594.8 1161.5,571.7 1185.0,625.2 1208.5,625.2 1232.0,610.0 1255.5,632.4 1279.0,610.0 1302.5,579.6 1326.0,610.0 1349.5,579.6 1373.0,518.8 1396.5,511.0 1420.0,594.8 1443.5,564.4 1467.0,450.2 1490.5,465.4 1514.0,526.1 1537.5,518.8 1561.0,541.3 1584.5,549.2 1608.0,518.8 1631.5,526.1 1655.0,473.3 1678.5,473.3 1702.0,473.3 1725.5,518.8 1749.0,503.7 1772.5,526.1 1796.0,526.1 1819.5,534.0 1843.0,526.1 1866.5,526.1 1890.0,534.0" fill="none" stroke="#FF4D4D" stroke-width="1.8" stroke-dasharray="9 6" stroke-linejoin="round" opacity="1.0"/><polyline points="550.5,503.7 574.0,503.7 597.5,503.7 621.0,670.7 644.5,746.6 668.0,458.1 691.5,685.9 715.0,716.3 738.5,526.1 762.0,351.8 785.5,670.7 809.0,488.5 832.5,412.5 856.0,594.8 879.5,549.2 903.0,571.7 926.5,594.8 950.0,610.0 973.5,556.5 997.0,564.4 1020.5,564.4 1044.0,594.8 1067.5,518.8 1091.0,503.7 1114.5,503.7 1138.0,541.3 1161.5,534.0 1185.0,534.0 1208.5,511.0 1232.0,541.3 1255.5,534.0 1279.0,534.0 1302.5,526.1 1326.0,518.8 1349.5,465.4 1373.0,518.8 1396.5,480.6 1420.0,526.1 1443.5,534.0 1467.0,480.6 1490.5,518.8 1514.0,458.1 1537.5,511.0 1561.0,488.5 1584.5,518.8 1608.0,526.1 1631.5,511.0 1655.0,495.8 1678.5,511.0 1702.0,511.0 1725.5,511.0 1749.0,526.1 1772.5,526.1 1796.0,526.1 1819.5,503.7 1843.0,511.0 1866.5,526.1 1890.0,465.4" fill="none" stroke="#FF4D4D" stroke-width="1.8" stroke-dasharray="2 5" stroke-linejoin="round" opacity="1.0"/><polyline points="621.0,1020.0 644.5,1020.0 668.0,1016.4 691.5,600.9 715.0,427.5 738.5,373.3 762.0,369.7 785.5,348.0 809.0,319.1 832.5,319.1 856.0,308.3 879.5,304.6 903.0,333.5 926.5,362.5 950.0,380.5 973.5,391.4 997.0,391.4 1020.5,409.4 1044.0,405.8 1067.5,387.7 1091.0,376.9 1114.5,362.5 1138.0,355.2 1161.5,340.8 1185.0,333.5 1208.5,326.3 1232.0,315.5 1255.5,308.3 1279.0,315.5 1302.5,322.7 1326.0,369.7 1349.5,904.4 1373.0,1020.0 1396.5,1020.0 1420.0,1020.0 1443.5,1020.0 1467.0,1020.0 1490.5,1020.0 1514.0,1020.0 1537.5,1020.0 1561.0,1020.0 1584.5,1020.0 1608.0,1020.0 1631.5,1020.0 1655.0,1020.0 1678.5,1020.0 1702.0,1020.0 1725.5,1020.0 1749.0,1020.0 1772.5,1020.0 1796.0,1020.0 1819.5,1020.0 1843.0,1020.0 1866.5,1020.0 1890.0,1020.0" fill="none" stroke="#2ED957" stroke-width="1.8" stroke-dasharray="" stroke-linejoin="round" opacity="1.0"/><polyline points="621.0,1020.0 644.5,1020.0 668.0,1009.2 691.5,572.0 715.0,387.7 738.5,315.5 762.0,301.0 785.5,275.7 809.0,250.5 832.5,254.1 856.0,243.2 879.5,261.3 903.0,283.0 926.5,304.6 950.0,304.6 973.5,308.3 997.0,301.0 1020.5,297.4 1044.0,290.2 1067.5,297.4 1091.0,272.1 1114.5,254.1 1138.0,243.2 1161.5,228.8 1185.0,214.3 1208.5,196.3 1232.0,178.2 1255.5,160.1 1279.0,145.7 1302.5,127.6 1326.0,124.0 1349.5,124.0 1373.0,806.8 1396.5,1020.0 1420.0,1020.0 1443.5,1020.0 1467.0,1020.0 1490.5,1020.0 1514.0,1020.0 1537.5,1020.0 1561.0,1020.0 1584.5,1020.0 1608.0,1020.0 1631.5,1020.0 1655.0,1020.0 1678.5,1020.0 1702.0,1020.0 1725.5,1020.0 1749.0,1020.0 1772.5,1020.0 1796.0,1020.0 1819.5,1020.0 1843.0,1020.0 1866.5,1020.0 1890.0,1020.0" fill="none" stroke="#2ED957" stroke-width="1.8" stroke-dasharray="9 6" stroke-linejoin="round" opacity="1.0"/><polyline points="550.5,1020.0 574.0,1020.0 597.5,1020.0 621.0,788.8 644.5,640.6 668.0,619.0 691.5,619.0 715.0,626.2 738.5,629.8 762.0,629.8 785.5,619.0 809.0,600.9 832.5,582.8 856.0,557.5 879.5,528.6 903.0,514.2 926.5,488.9 950.0,460.0 973.5,434.7 997.0,431.1 1020.5,434.7 1044.0,434.7 1067.5,669.5 1091.0,911.6 1114.5,1016.4 1138.0,1020.0 1161.5,1020.0 1185.0,1020.0 1208.5,1020.0 1232.0,1020.0 1255.5,1020.0 1279.0,1020.0 1302.5,1020.0 1326.0,1020.0 1349.5,1020.0 1373.0,1020.0 1396.5,1020.0 1420.0,1020.0 1443.5,1020.0 1467.0,1020.0 1490.5,1020.0 1514.0,1020.0 1537.5,1020.0 1561.0,1020.0 1584.5,1020.0 1608.0,1020.0 1631.5,1020.0 1655.0,1020.0 1678.5,1020.0 1702.0,1020.0 1725.5,1020.0 1749.0,1020.0 1772.5,1020.0 1796.0,1020.0 1819.5,1020.0 1843.0,1020.0 1866.5,1020.0 1890.0,1020.0" fill="none" stroke="#2ED957" stroke-width="1.8" stroke-dasharray="2 5" stroke-linejoin="round" opacity="1.0"/><line x1="1114.5" y1="104" x2="1114.5" y2="1030" stroke="#F5C542" stroke-width="1.5"/></svg></body></html>

diff --git a/Docs/mockups/build_mockups.py b/Docs/mockups/build_mockups.py
@@ -33,6 +33,7 @@ CHANNELS = [
     ("Acceleration", "#6FA1FF", "acc", "{:.2f} g"),
 ]
 VISIBLE = {"RPM", "Throttle %", "Current", "Voltage"}
+BOLD = {"RPM"}
 GPS = [("RaceBox Speed", "#FFA033"), ("RaceBox Distance", "#8CCB35"), ("RaceBox G-Force X", "#33E6E6")]
 LOGGER = [("Logger Throttle %", "#FFE066"), ("Logger RPM", "#F29E86"), ("Logger Wheel Speed", "#FF8FB1")]
 
@@ -161,7 +162,7 @@ def polyline(points, color, dash, width=1.8, opacity=1.0):
 # ---------------------------------------------------------------- logs page
 
 def logs_page():
-    side_w = 380
+    side_w = 420
     # Sidebar rows
     hdr = "".join(f'<div class="vc">{linesample(i, w=22)} R{i + 1}</div>' for i in range(3))
     rows = ""
@@ -169,8 +170,9 @@ def logs_page():
         on = name in VISIBLE
         vals = "".join(f'<div class="vc">{fmt.format(value_at(r, key, CURSOR_T))}</div>' for r in runs)
         rows += (f'<div class="row{"" if on else " off"}"><span class="cb">{"✔" if on else ""}</span>'
-                 f'<span class="sw" style="background:{color}"></span><span class="nm">{name}</span>{vals}</div>')
-    gps_rows = "".join(f'<div class="row off dis"><span class="cb"></span><span class="sw" style="background:{c}"></span>'
+                 f'<span class="sw" style="background:{color}"></span><span class="bb{" on" if name in BOLD else ""}">B</span>'
+                 f'<span class="nm">{name}</span>{vals}</div>')
+    gps_rows = "".join(f'<div class="row off dis"><span class="cb"></span><span class="sw" style="background:{c}"></span><span class="bb">B</span>'
                        f'<span class="nm">{n.replace("RaceBox ", "")}</span><div class="vc">-</div><div class="vc">-</div><div class="vc">-</div></div>'
                        for n, c in GPS)
 
@@ -211,7 +213,7 @@ def logs_page():
         span = (hi - lo) or 1
         for i, run in enumerate(runs):
             pts = [(X(r["t"]), cy + ch - 10 - (r[key] - lo) / span * (ch - 30)) for r in run]
-            svg.append(polyline(pts, color, DASH[i]))
+            svg.append(polyline(pts, color, DASH[i], 3.6 if name in BOLD else 1.8))
         if name == "RPM":  # the focused channel owns the visible axis
             for k in range(6):
                 val = lo + span * k / 5
@@ -233,13 +235,15 @@ def logs_page():
 .row.off .nm, .row.off .vc {{ color: #5C6573; }}
 .row.dis {{ opacity: .55; }}
 .cb {{ width: 16px; height: 16px; border: 1px solid #5C6573; border-radius: 3px; font-size: 11px; line-height: 14px; text-align: center; color: #9AC7F2; }}
-.sw {{ width: 12px; height: 12px; border-radius: 2px; }}
-.nm {{ flex: 1; }}
+.sw {{ width: 14px; height: 14px; border-radius: 2px; outline: 1px solid #5C6573; outline-offset: 1px; }}
+.bb {{ width: 20px; height: 18px; border: 1px solid #3A4250; border-radius: 3px; font: 700 11px 'Segoe UI'; text-align: center; line-height: 16px; color: #5C6573; }}
+.bb.on {{ background: #2D6CB5; border-color: #2D6CB5; color: #fff; }}
+.nm {{ flex: 1; white-space: nowrap; }}
 .vc {{ width: 70px; text-align: right; font-variant-numeric: tabular-nums; display: flex; justify-content: flex-end; align-items: center; gap: 4px; }}
 """
     notes = f"""
-<div class="note" style="left:40px; top:600px">Channels move to a left list. Tick = on chart. Each run's value at the cursor sits on the row.</div>
-<div class="note" style="left:40px; top:690px">Groups fold away. GPS and Mini Logger channels appear here when their log is loaded.</div>
+<div class="note" style="left:40px; top:600px">Each channel row: tick = on chart, colour box = pick a colour, B = bold line (RPM is bold here). Each run's value at the cursor sits on the row.</div>
+<div class="note" style="left:40px; top:720px">Groups fold away. GPS and Mini Logger channels appear here when their log is loaded.</div>
 <div class="note" style="left:1540px; top:700px">Chart gets the full width and height. Tune lives on its own tab.</div>
 """
     body = (top_bar("Logs") + run_strip() +

diff --git a/Docs/UI_Layout_Plan.md b/Docs/UI_Layout_Plan.md
@@ -52,7 +52,9 @@ BBRC Stock Data Logger).
 
 - **Logs page layout (FuelTech model).** Thin run strip on top. Left channel
   sidebar grouped by source (ESC, GPS, Mini Logger), each row showing the
-  cursor value for each loaded run. This replaces the bottom channel drawer and
+  cursor value for each loaded run. Each row has a tick box (show on chart),
+  a colour box (click to change the channel colour) and a B button (draw that
+  channel's lines bold). This replaces the bottom channel drawer and
   stat cards. Chart fills the rest.
 
 ## Open questions
